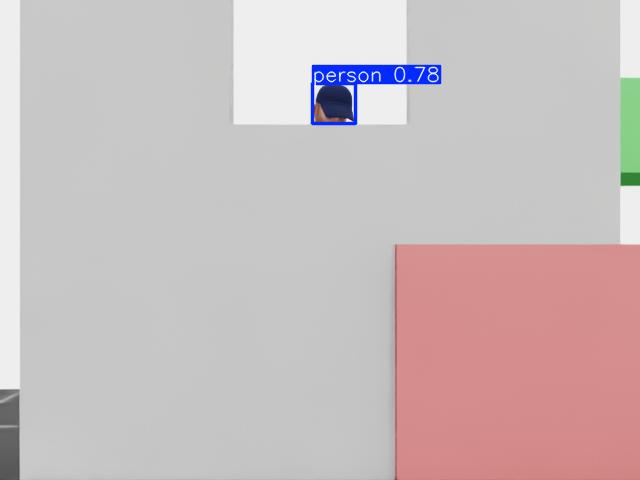
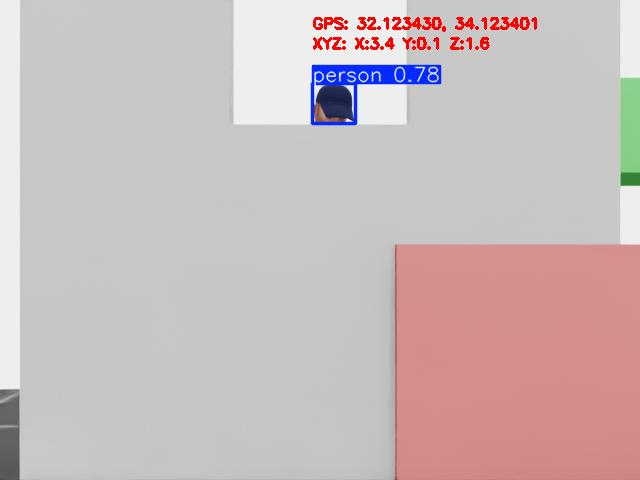
Use drone pose to compute rescue coordinates
Extend PerceptionModule.process_camera_data to accept drone_pos and drone_quat and use them to compute SLAM/world coordinates and simulated GPS for detected persons. Samples depth at bounding-box center, deprojects to meters, rotates the camera vector with the full quaternion (scipy Rotation) to get world offsets, converts to lat/lon, and prepares custom text overlays drawn on the YOLO-annotated frame. Adds logging with rescue coordinates, handles depth/infinity and image bounds, and updates the test environment to pass the drone's root position and quaternion. Also updates three debug detection images.

Changed region(s): [[0.4688, 0.0312, 0.8438, 0.125]]

diff --git a/source/first_drone/first_drone/models/perception.py b/source/first_drone/first_drone/models/perception.py
@@ -22,10 +22,11 @@ class PerceptionModule:
             yolo_path = r'D:\isaac\3D_Drone_RL\YOLO\yolo11n.pt'
             self.yolo_model = YOLO(yolo_path)
 
-    def process_camera_data(self, rgb_image, depth_image):
+    def process_camera_data(self, rgb_image, depth_image, drone_pos=None, drone_quat=None):
         """
         Processes images to return target detection and latent representation.
         Expects rgb_image and depth_image as PyTorch Tensors from Isaac Sim.
+        Optionally takes drone_pos and drone_quat to calculate true global GPS coordinates.
         """
         
         # We extract the batch size (number of drones) from the tensor shape
@@ -75,18 +76,97 @@ class PerceptionModule:
         # We keep all objects because the model internally filtered EVERYTHING > 0.50
         filtered_results = results[0]
         
+        # We need to collect the custom text overlays to draw them on the frame later
+        custom_texts = []
+        
         # Check if we found any persons for RL and saving logic
         has_persons = False
         for box in filtered_results.boxes:
             if int(box.cls[0]) == 0:
                 has_persons = True
-                break
-        
+                
+                # We do a quick pre-calculation here to get coordinates for the OpenCV frame
+                x_center, y_center, _, _ = box.xywh[0].tolist()
+                px = max(0, min(int(x_center), single_env_image_bgr.shape[1] - 1))
+                py = max(0, min(int(y_center), single_env_image_bgr.shape[0] - 1))
+                
+                # Fetch depth
+                if isinstance(depth_image, torch.Tensor):
+                    depth_array = depth_image[0].detach().cpu().numpy()
+                else:
+                    depth_array = depth_image[0]
+                z_depth = float(np.squeeze(depth_array[py, px]))
+                if np.isinf(z_depth): z_depth = 10.0
+                
+                # Optional: Calculate SLAM coordinates to display
+                if drone_pos is not None and drone_quat is not None:
+                    fx = single_env_image_bgr.shape[1] * (24.0 / 20.955)
+                    cx = single_env_image_bgr.shape[1] / 2.0
+                    cy = single_env_image_bgr.shape[0] / 2.0
+                    local_x = (x_center - cx) * z_depth / fx
+                    local_y = (y_center - cy) * z_depth / fx
+                    
+                    d_x = float(drone_pos[0, 0].item())
+                    d_y = float(drone_pos[0, 1].item())
+                    d_z = float(drone_pos[0, 2].item())
+                    qw = float(drone_quat[0, 0].item())
+                    qx = float(drone_quat[0, 1].item())
+                    qy = float(drone_quat[0, 2].item())
+                    qz = float(drone_quat[0, 3].item())
+                    
+                    # --- Full 3D Rotation Matrix (Fix for Pitch/Roll during flight) ---
+                    # Instead of just Yaw, we use the full quaternion to rotate the camera vector.
+                    from scipy.spatial.transform import Rotation as R
+                    rot = R.from_quat([qx, qy, qz, qw])  # scipy expects [x, y, z, w]
+                    
+                    # Local camera vector: 
+                    # X_drone(Forward) = z_depth
+                    # Y_drone(Left)    = -local_x
+                    # Z_drone(Up)      = -local_y
+                    cam_vector = np.array([z_depth, -local_x, -local_y])
+                    
+                    # Rotate the vector to world coordinates
+                    world_vector = rot.apply(cam_vector)
+                    
+                    t_x = d_x + world_vector[0]
+                    t_y = d_y + world_vector[1]
+                    t_z = d_z + world_vector[2]
+                    # ------------------------------------------------------------------
+                    
+                    # Convert Local Cartesian (meters) to Simulated GPS (Decimal Degrees)
+                    # Assuming origin (0,0) is at Lat=32.1234, Lon=34.1234
+                    anchor_lat, anchor_lon = 32.1234, 34.1234
+                    lat_offset_per_m = 1.0 / 111320.0
+                    lon_offset_per_m = 1.0 / (111320.0 * math.cos(math.radians(anchor_lat)))
+                    
+                    # Assuming X is North(+) and Y is East(+)
+                    target_lat = anchor_lat + (t_x * lat_offset_per_m)
+                    target_lon = anchor_lon + (t_y * lon_offset_per_m)
+                    
+                    # Save text and position (placing it near the bounding box)
+                    # YOLO's label is about 25 pixels tall sitting exactly above base_y.
+                    # We push ours to 35px and 55px above to strictly avoid overlap.
+                    bbox_x1, bbox_y1, _, _ = box.xyxy[0].tolist()
+                    base_x = int(bbox_x1)
+                    base_y = int(bbox_y1)
+                    
+                    gps_str = f"GPS: {target_lat:.6f}, {target_lon:.6f}"
+                    local_str = f"XYZ: X:{t_x:.1f} Y:{t_y:.1f} Z:{t_z:.1f}"
+                    
+                    custom_texts.append((gps_str, base_x, max(20, base_y - 55)))
+                    custom_texts.append((local_str, base_x, max(40, base_y - 35)))
+                    
         self.detection_count += 1
         
         # --- Live OpenCV Window Display ---
         import cv2
         annotated_frame = filtered_results.plot()  # Returns BGR format array with ONLY filtered boxes
+        
+        # Draw our custom Rescue Coordinates on the frame!
+        for txt, p_x, p_y in custom_texts:
+            # Color is BGR, so (0, 0, 255) is Red. OpenCV text thickness 2 for better visibility.
+            cv2.putText(annotated_frame, txt, (p_x, p_y), cv2.FONT_HERSHEY_SIMPLEX, 0.5, (0, 0, 255), 2)
+            
         cv2.imshow("Isaac Sim POV - Live YOLO", annotated_frame)
         cv2.waitKey(1) # 1 millisecond delay to update the live frame
         # ----------------------------------
@@ -113,7 +193,75 @@ class PerceptionModule:
         for box in filtered_results.boxes:
             if int(box.cls[0]) == 0:  # Class 0 is 'person'
                 target_found_batch[0] = True
+                
+                # --- Step 1: Pixel center ---
                 x_center, y_center, _, _ = box.xywh[0].tolist()
+                px = int(x_center)
+                py = int(y_center)
+                
+                # Bounds check
+                img_h, img_w = single_env_image_bgr.shape[:2]
+                px = max(0, min(px, img_w - 1))
+                py = max(0, min(py, img_h - 1))
+                
+                # --- Step 2: Depth Sampling ---
+                if isinstance(depth_image, torch.Tensor):
+                    depth_array = depth_image[0].detach().cpu().numpy()
+                else:
+                    depth_array = depth_image[0]
+                
+                # Extract Z depth (meters) from the matrix at [py, px]
+                z_depth = float(np.squeeze(depth_array[py, px]))
+                if np.isinf(z_depth): 
+                    z_depth = 10.0  # Handle sky/infinity
+                    
+                # --- Step 3: De-projection to Meters ---
+                # Calculate focal length in pixels using Isaac Sim pinhole physics
+                # fx = width * (focal_length_mm / horizontal_aperture_mm)
+                # Configuration values: focus=24.0, aperture=20.955
+                fx = img_w * (24.0 / 20.955)
+                fy = fx  # Square pixels assumption
+                cx = img_w / 2.0
+                cy = img_h / 2.0
+                
+                # Mathematics for projection
+                local_x = (x_center - cx) * z_depth / fx
+                local_y = (y_center - cy) * z_depth / fy
+                
+                # --- Step 4: Calculate Coordinates Relative to Entrance (SLAM Simulation) ---
+                global_msg = ""
+                if drone_pos is not None and drone_quat is not None:
+                    # In a GPS-denied disaster zone, the drone uses SLAM/VIO (Visual Inertial Odometry)
+                    # to track its own movement relative to its starting point (The Entrance).
+                    # Here, the physics engine perfectly simulates the perfect SLAM tracking relative to origin.
+                    
+                    # Grab drone's SLAM-tracked coordinates (meters from entrance)
+                    d_x = float(drone_pos[0, 0].item())
+                    d_y = float(drone_pos[0, 1].item())
+                    d_z = float(drone_pos[0, 2].item())
+                    
+                    # Grab drone's quaternion (w, x, y, z)
+                    qw = float(drone_quat[0, 0].item())
+                    qx = float(drone_quat[0, 1].item())
+                    qy = float(drone_quat[0, 2].item())
+                    qz = float(drone_quat[0, 3].item())
+                    
+                    # Convert quaternion to yaw angle (heading)
+                    import math
+                    yaw = math.atan2(2.0 * (qw * qz + qx * qy), 1.0 - 2.0 * (qy * qy + qz * qz))
+                    
+                    # Calculate target's position RELATIVE TO THE ENTRANCE (0,0,0)
+                    target_x_entrance = d_x + (z_depth * math.cos(yaw)) - (local_x * math.sin(yaw))
+                    target_y_entrance = d_y + (z_depth * math.sin(yaw)) + (local_x * math.cos(yaw))
+                    target_z_entrance = d_z - local_y  # Camera Y is down, so we subtract from drone Z height
+                    
+                    global_msg = f"\n   ↳ [RESCUE COORDS] Target is {target_x_entrance:.1f}m Forward, {target_y_entrance:.1f}m Right, and {target_z_entrance:.1f}m High relative to the Building Entrance!"
+                
+                # --- Step 5: Logging ---
+                print(f"[ALARM] Person found! Dist: {z_depth:.2f}m, Local X: {local_x:.2f}m{global_msg}")
+                
+                # ---------------------------------------------
+                
                 target_coords_batch[0, 0] = x_center
                 target_coords_batch[0, 1] = y_center
                 break 

diff --git a/source/first_drone/first_drone/tasks/direct/first_drone/test_yolo_env.py b/source/first_drone/first_drone/tasks/direct/first_drone/test_yolo_env.py
@@ -216,7 +216,11 @@ class TestYoloEnv(DirectRLEnv):
         
         # 3. Pass images to the Perception Module (Currently running as Mock)
         # Returns: target detected (bool), target coordinates (x,y), and latent depth (vector)
-        target_found, target_coords, latent_depth_vector = self.perception.process_camera_data(rgb_image, depth_image)
+        drone_pos = self._robot.data.root_pos_w.clone()
+        drone_quat = self._robot.data.root_quat_w.clone()
+        target_found, target_coords, latent_depth_vector = self.perception.process_camera_data(
+            rgb_image, depth_image, drone_pos=drone_pos, drone_quat=drone_quat
+        )
         
         # --- Critic observation: full privileged state ---
         desired_pos_b, _ = subtract_frame_transforms(
